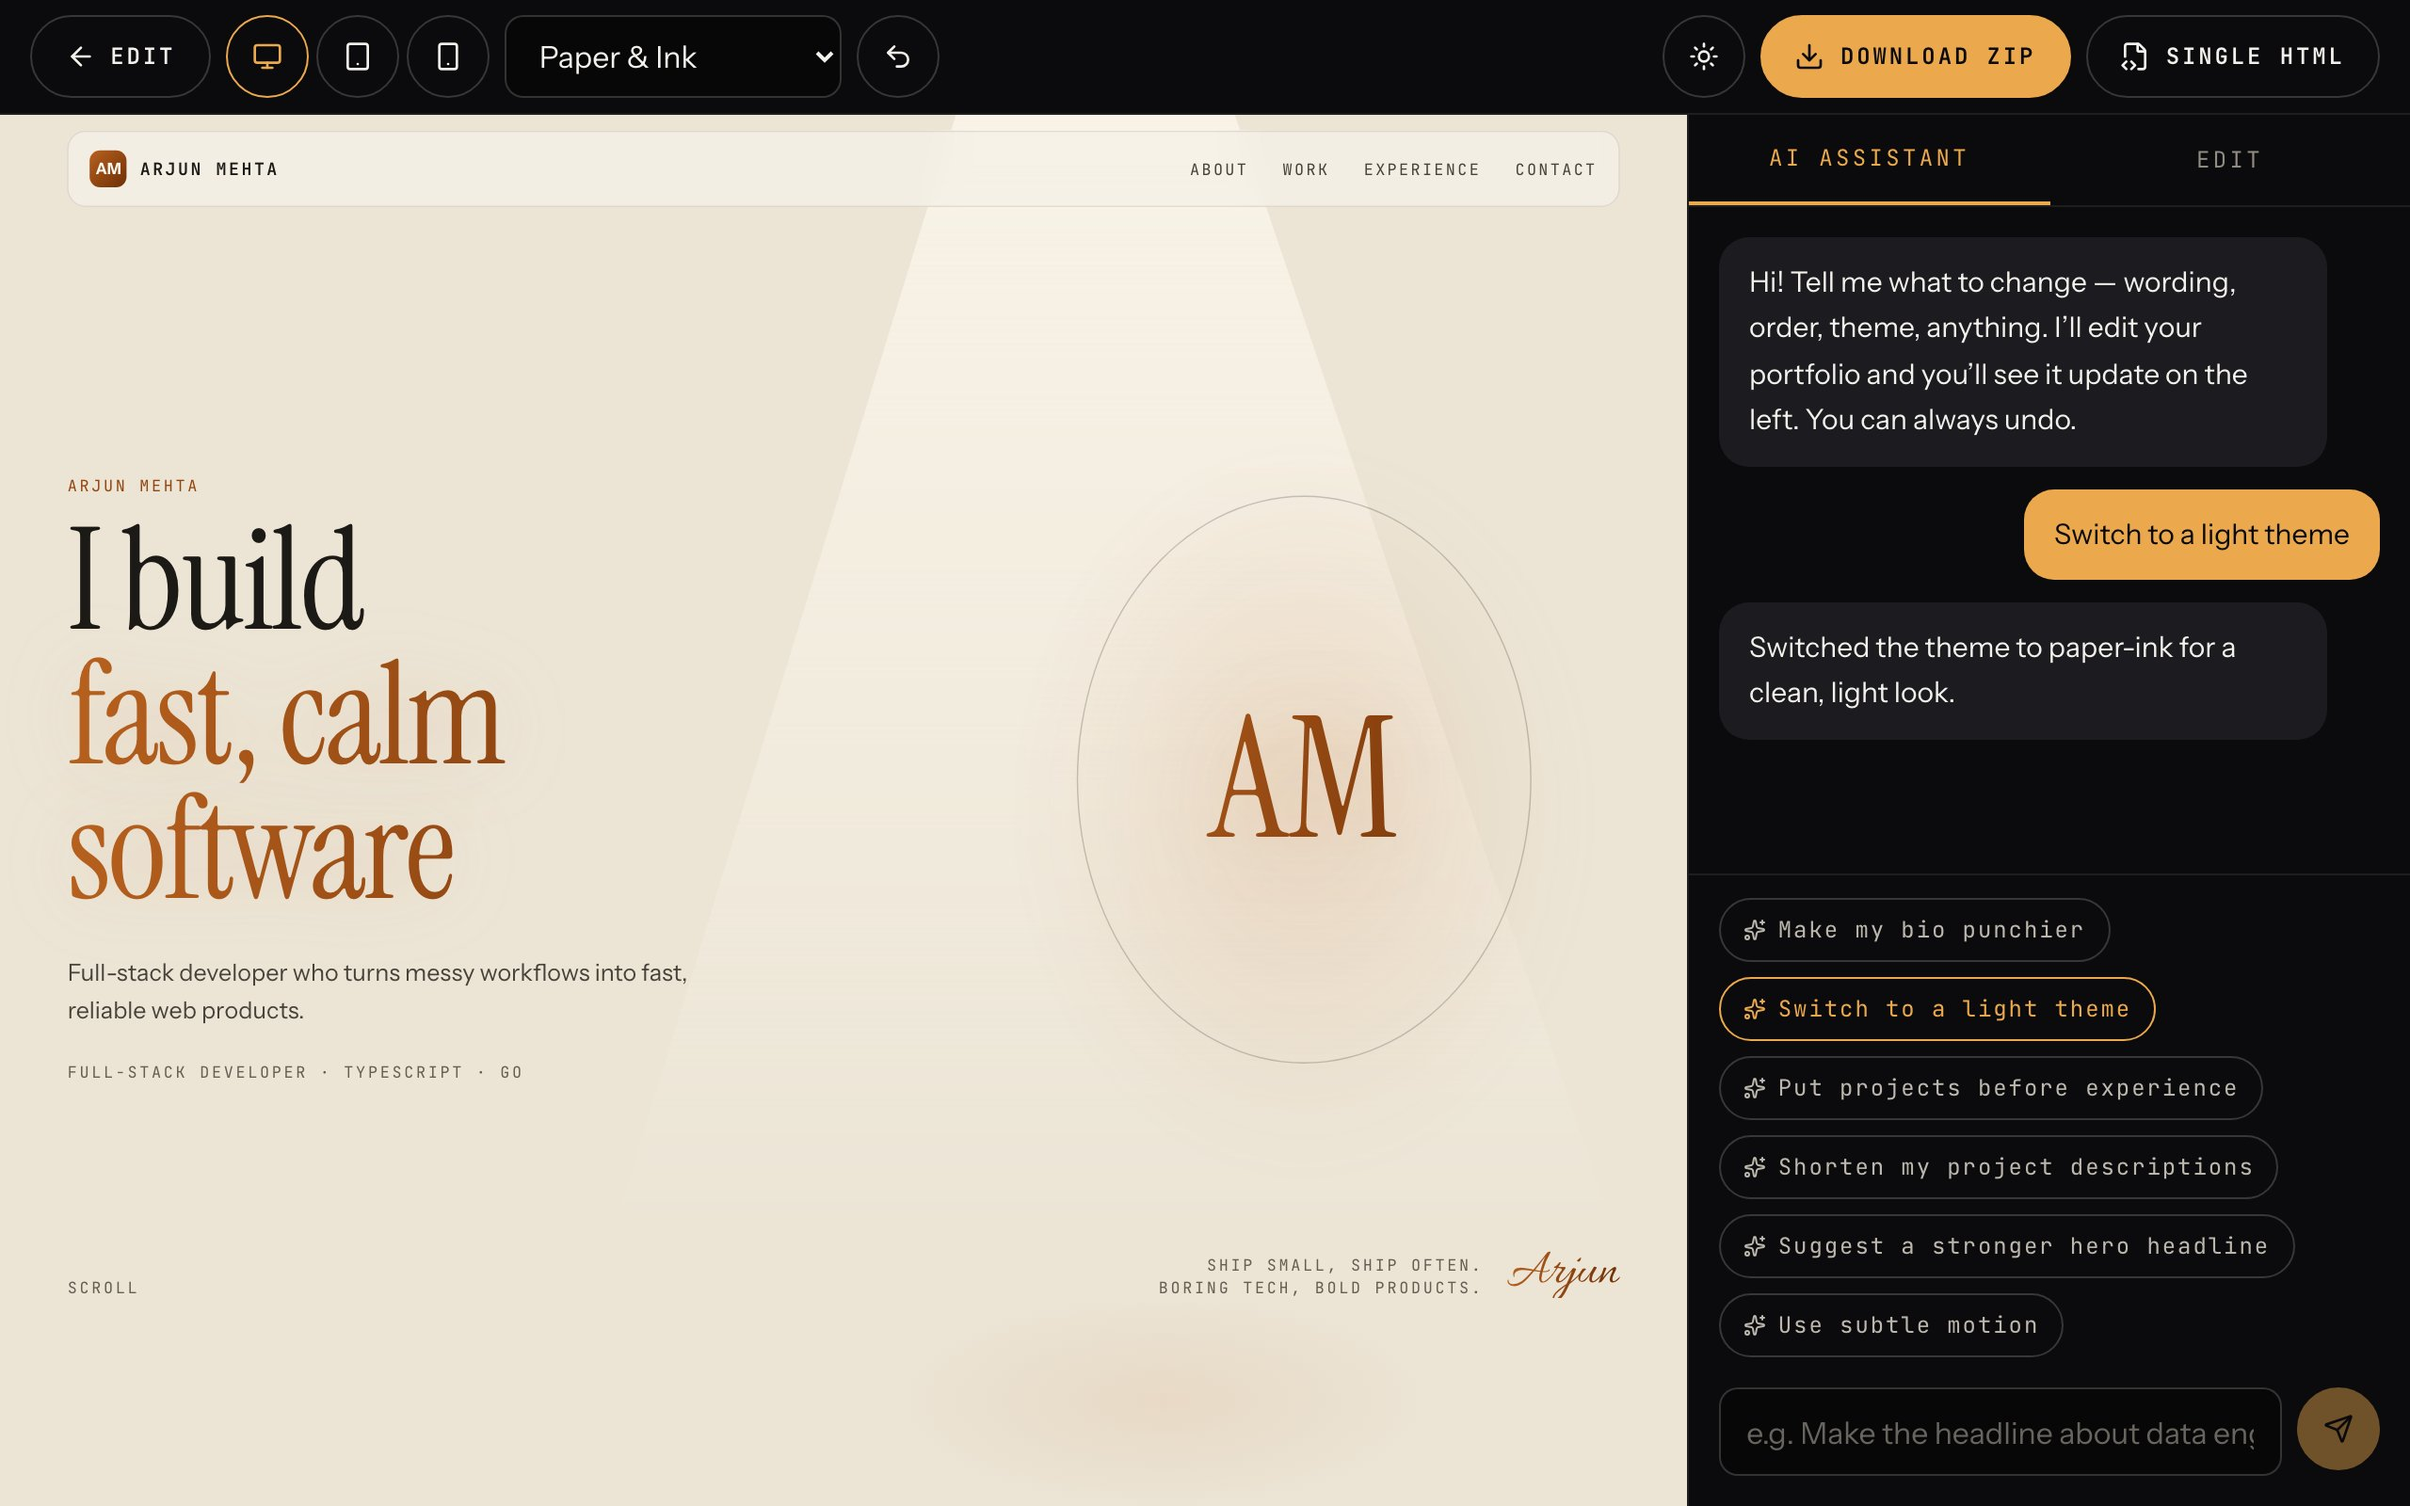
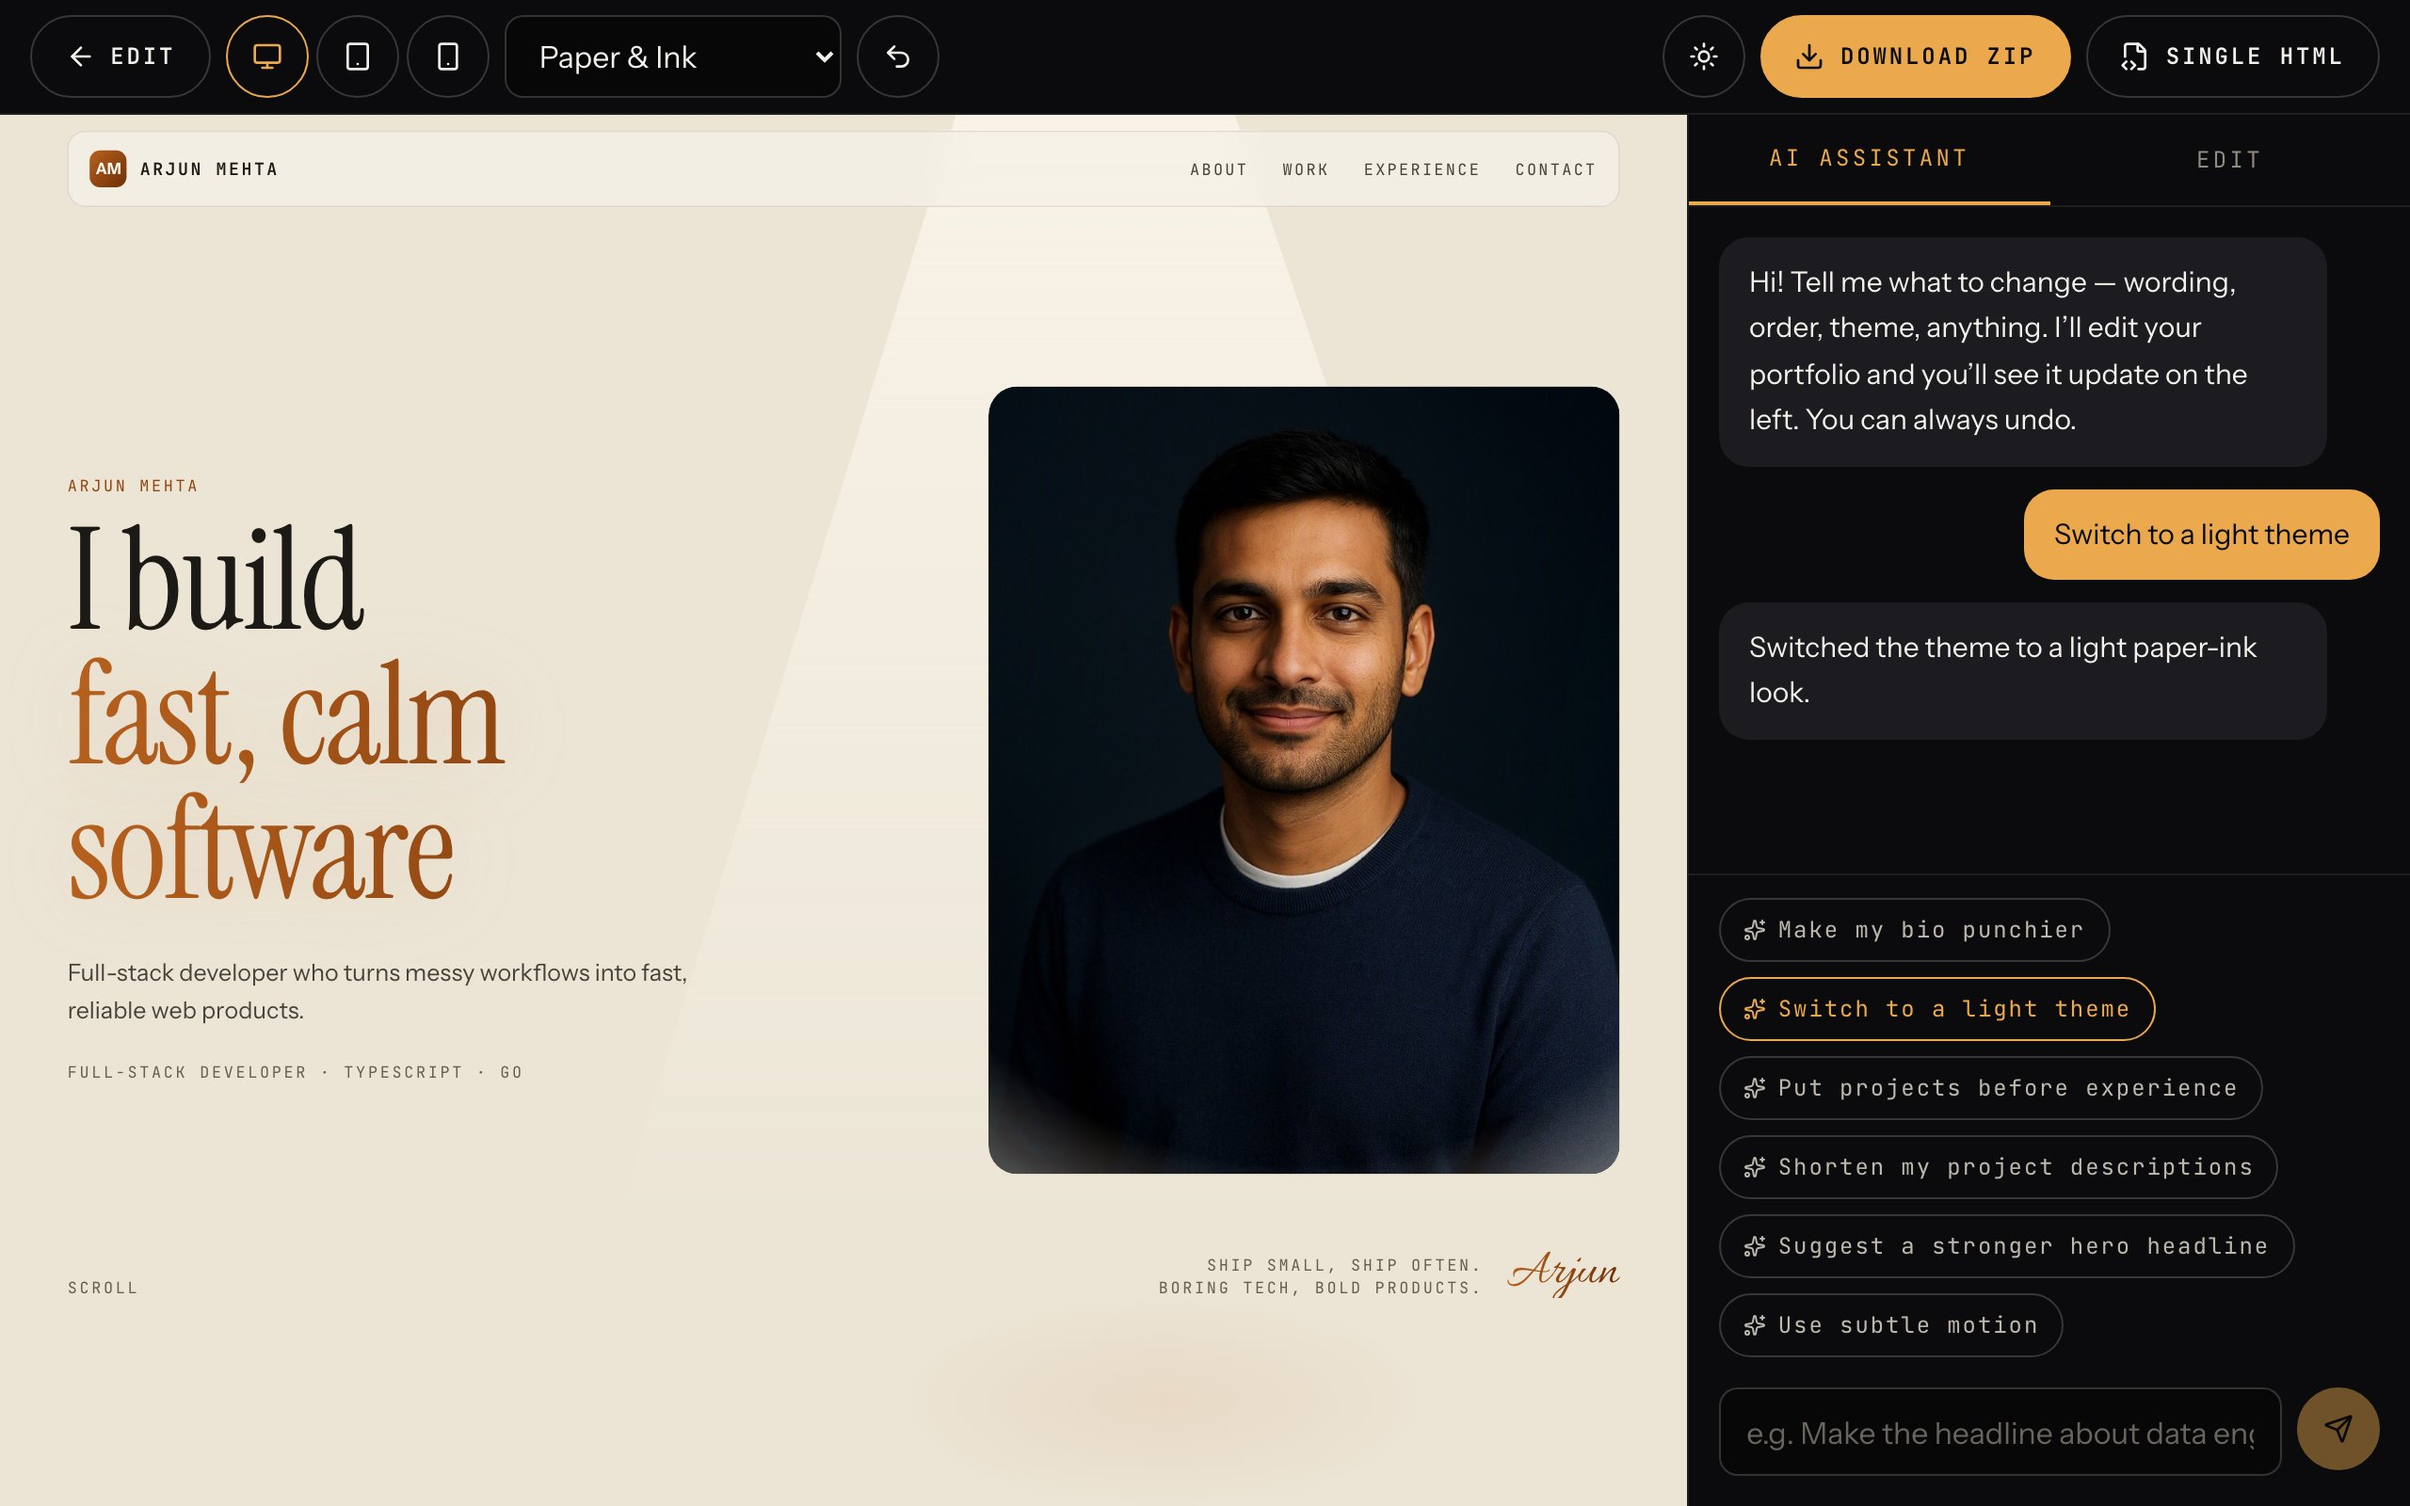
Samples: AI-generated portraits for the three example people
Arjun, Priya and Rahul now stand under the spotlight with a photo instead
of their initials — generated through the app's own image gateway, each
lit and dressed to sit in its theme (indigo, coral, paper). Served from
public/sample-photos and passed to renderSite as a framed portrait. The
landing hero's studio capture is retaken with Arjun's photo loaded.

Changed region(s): [[0.4062, 0.25, 0.6875, 0.7812], [0.8438, 0.4062, 0.9375, 0.4375], [0.7188, 0.4375, 0.8125, 0.4688]]

diff --git a/lib/builder/samples.ts b/lib/builder/samples.ts
@@ -3,8 +3,9 @@ import { emptyDraft } from "./defaults";
 
 /**
  * The three example portfolios on the landing page — different people,
- * different careers, different themes. Fictional, and rendered with no
- * photo or voice so they're pure `renderSite` output.
+ * different careers, different themes. Fictional people with AI-generated
+ * portraits (public/sample-photos), rendered by the same `renderSite` as a
+ * real download.
  */
 
 export interface Sample {
@@ -14,6 +15,8 @@ export interface Sample {
   themeId: string;
   themeName: string;
   blurb: string;
+  /** AI-generated portrait of this fictional person, served from /public */
+  photo: string;
   draft: () => Draft;
 }
 
@@ -159,9 +162,9 @@ function student(): Draft {
 }
 
 export const SAMPLES: Sample[] = [
-  { id: "developer", name: "Arjun Mehta", role: "Full-stack Developer", themeId: "midnight-indigo", themeName: "Midnight Indigo", blurb: "Five years of shipping SaaS — projects with real metrics, a clear career timeline.", draft: developer },
-  { id: "marketer", name: "Priya Nair", role: "Marketing Manager", themeId: "sunset-coral", themeName: "Sunset Coral", blurb: "Campaigns and brand launches told as stories, with the numbers that prove them.", draft: marketer },
-  { id: "student", name: "Rahul Das", role: "Computer Science Graduate", themeId: "paper-ink", themeName: "Paper & Ink", blurb: "A fresher’s first portfolio: projects, internship, grades and hackathons.", draft: student },
+  { id: "developer", photo: "/sample-photos/developer.jpg", name: "Arjun Mehta", role: "Full-stack Developer", themeId: "midnight-indigo", themeName: "Midnight Indigo", blurb: "Five years of shipping SaaS — projects with real metrics, a clear career timeline.", draft: developer },
+  { id: "marketer", photo: "/sample-photos/marketer.jpg", name: "Priya Nair", role: "Marketing Manager", themeId: "sunset-coral", themeName: "Sunset Coral", blurb: "Campaigns and brand launches told as stories, with the numbers that prove them.", draft: marketer },
+  { id: "student", photo: "/sample-photos/student.jpg", name: "Rahul Das", role: "Computer Science Graduate", themeId: "paper-ink", themeName: "Paper & Ink", blurb: "A fresher’s first portfolio: projects, internship, grades and hackathons.", draft: student },
 ];
 
 export const sampleById = (id: string) => SAMPLES.find((s) => s.id === id);

diff --git a/app/samples/[id]/route.ts b/app/samples/[id]/route.ts
@@ -17,6 +17,6 @@ export function generateStaticParams() {
 export async function GET(_req: Request, ctx: RouteContext<"/samples/[id]">) {
   const sample = sampleById((await ctx.params).id);
   if (!sample) return new Response("Not found", { status: 404 });
-  const html = renderSite(sample.draft(), themeById(sample.themeId), { covers: {} });
+  const html = renderSite(sample.draft(), themeById(sample.themeId), { covers: {}, portrait: { src: sample.photo, kind: "framed" } });
   return new Response(html, { headers: { "Content-Type": "text/html; charset=utf-8" } });
 }
